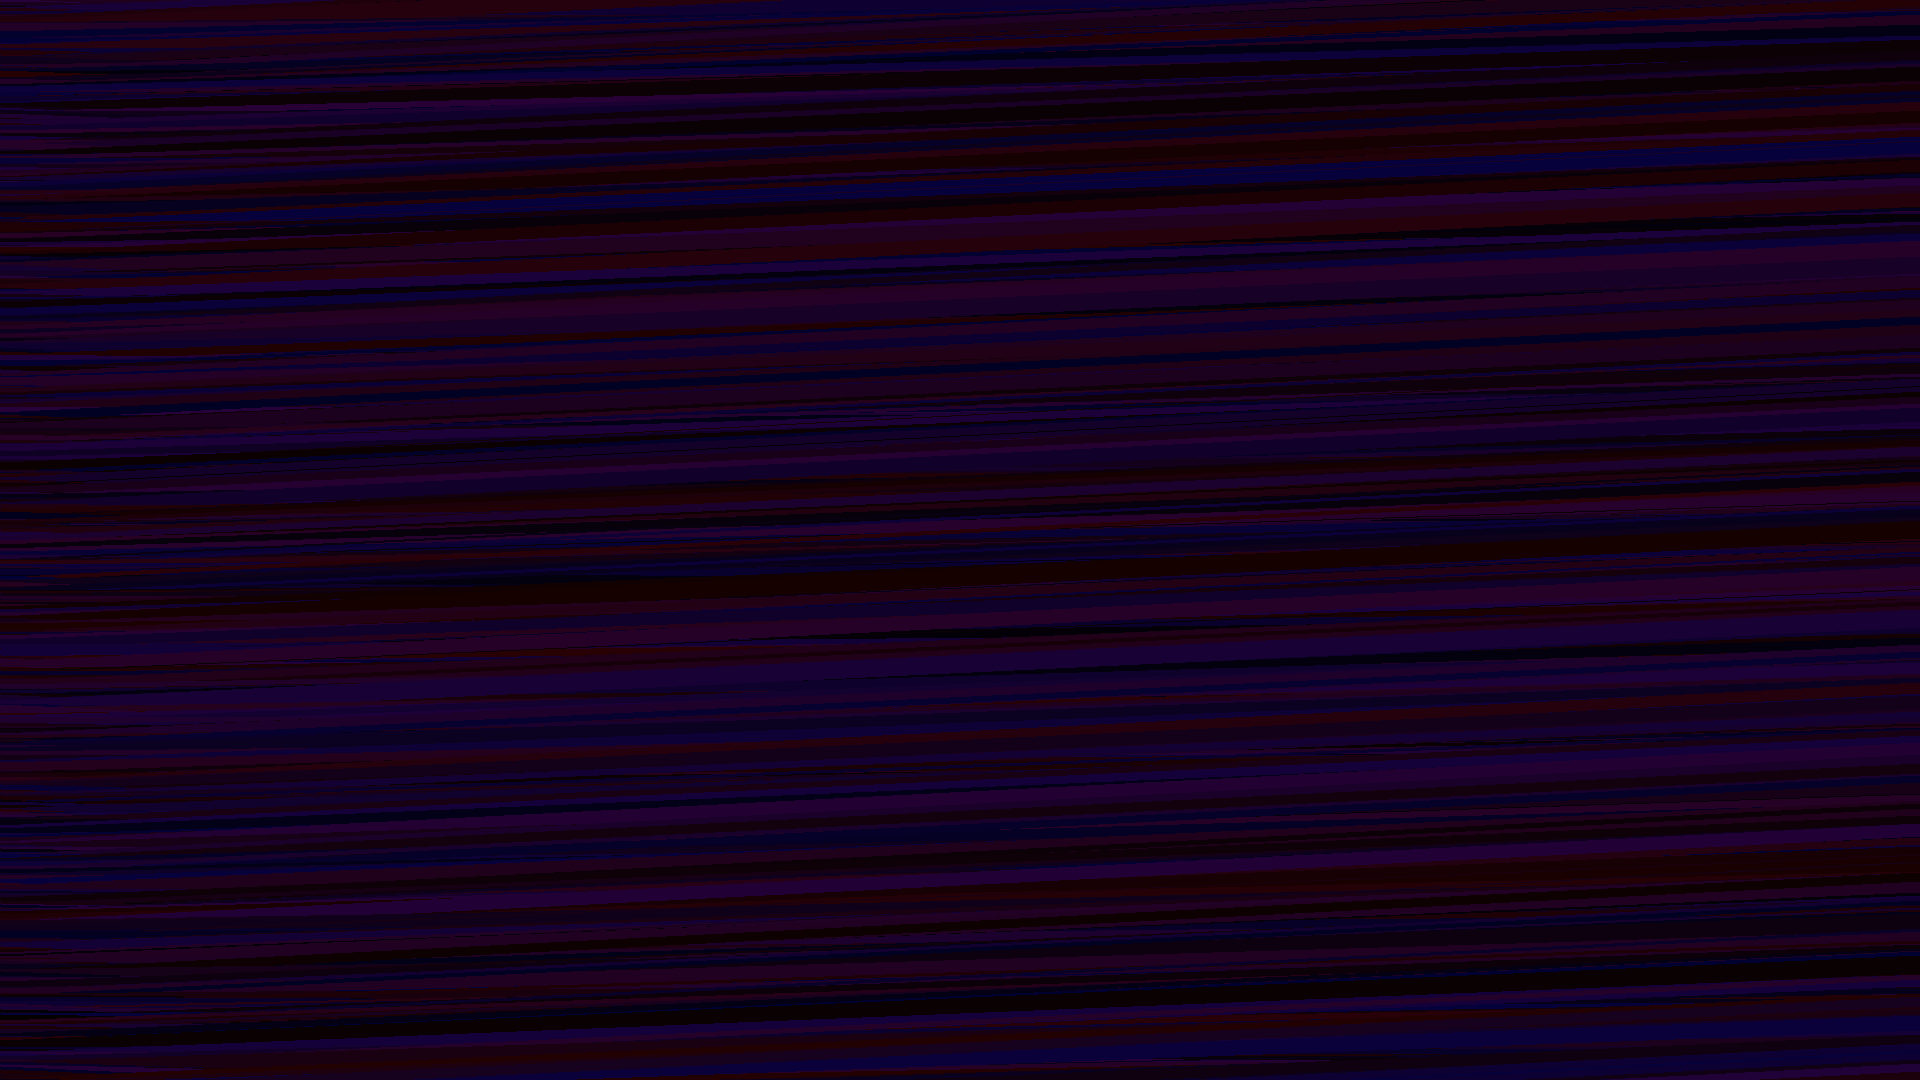
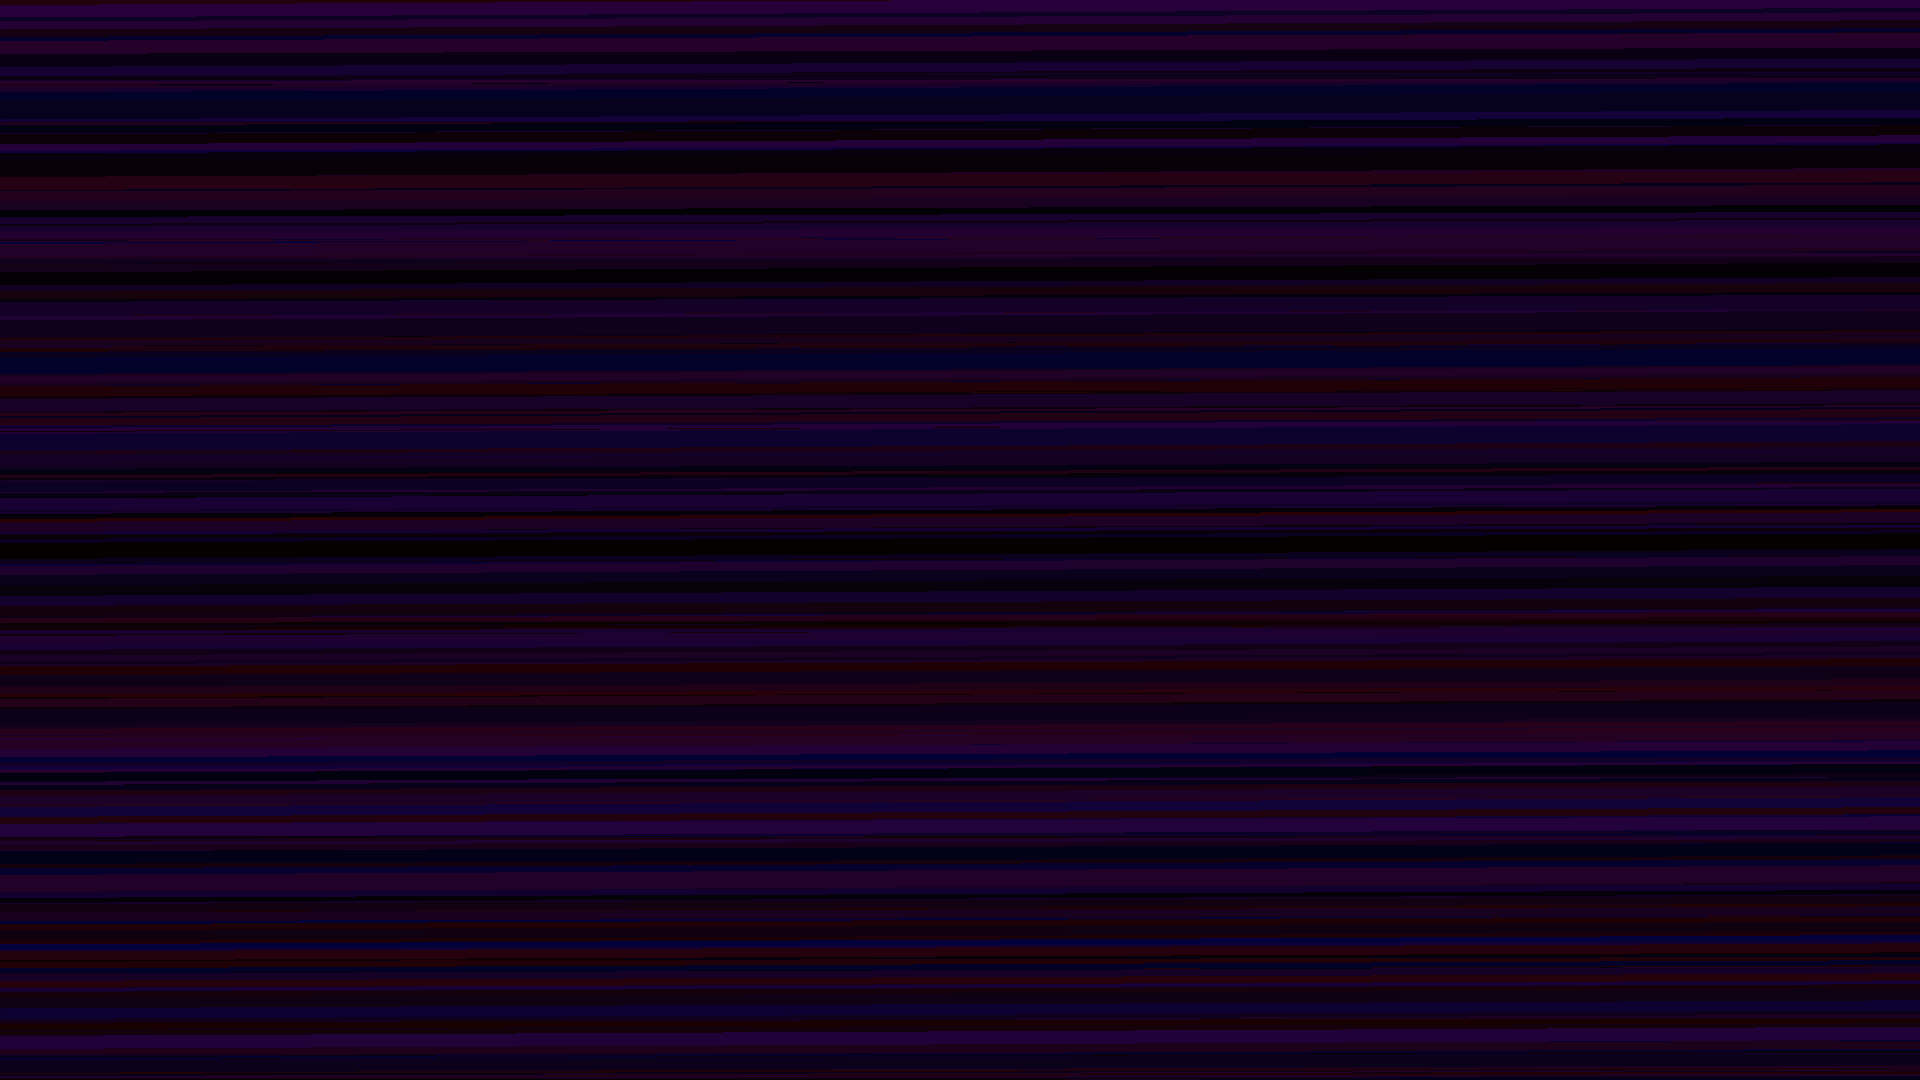
added Drawdata class and permiation framework

diff --git a/wall.py b/wall.py
@@ -17,7 +17,9 @@ import random
 import time
 import ctypes
 import os
+from Drawdata import Drawdata
 
+random.seed()
 
 width = 1920
 height = 1080
@@ -29,23 +31,27 @@ draw = ImageDraw.Draw(img)
 j = width
 cd = 0
 
+data = Drawdata()
+for i in range(width):
+    cd = random.randint(-100,100)
+    data.xy1.append((0, i))
+    data.xy2.append((width*10, i + cd))
+    data.fill.append((random.randrange(1, 40), random.randrange(1, 2), random.randrange(1, 60)))
+    data.line_width.append(random.randrange(1, 20))
 
 while True:
     for i in range(width):
-        random.seed()
-        line_width = random.randrange(1, 20)
-        color1 = random.randrange(1, 40)
-        color2 = random.randrange(1, 2)
-        color3 = random.randrange(1, 60)
-        cd = random.randint(-100,100)
+        
         #draw.arc([(0, 0), (i, height)], 0, 360, fill=(color1, color2, color3), width=(line_width))
         #draw.arc([(width - i, 0), (width, height)], 0, 360, fill=(color1, color2, color3), width=(line_width))
         #draw.line([(0, 0), (width, height)], fill=(color1 + cd, color2 + cd, 40), width=(line_width), joint="curve")
-        draw.line([(0, i), (width, i + cd )], fill=(color1, color2, color3), width=line_width)
         #img = enhancer.enhance(1.1)
 
+        draw.line([data.xy1[i], data.xy2[i]], fill=data.fill[i], width=data.line_width[i])
 
+    data.permiateX()
+    data.reverseCycle(width)
     img.save("image.png")
     ctypes.windll.user32.SystemParametersInfoW(20, 0, os.getcwd()+"\image.png" , 0)
 
-    time.sleep(2)
+    time.sleep(0.05)

diff --git a/Drawdata.py b/Drawdata.py
@@ -1,0 +1,22 @@
+class Drawdata:
+    xy1 = []
+    xy2 = []
+    fill = []
+    line_width = []
+
+    permiateScale = 100
+    def permiateX(self):
+        # permiates the x values of all datapoints in Drawdata object by permiateScale ammount 
+        for i in range(len(self.xy1)):
+            self.xy1[i] = (self.xy1[i][0] - self.permiateScale, self.xy1[i][1])
+            self.xy2[i] = (self.xy2[i][0] - self.permiateScale, self.xy2[i][1])
+    
+    def reverseCycle(self, width):
+        # pre: must be at end of cycle, or beginning or cycle
+        # required pass width of screen
+        # post: reverses direction of permiation
+        # is void
+        if self.xy2[len(self.xy2) - 1][0] <= width + self.permiateScale: # at end of cycle
+            self.permiateScale *= -1
+        elif self.xy1[0][0] >= 0: # at begining of new cycle
+            self.permiateScale *= -1
